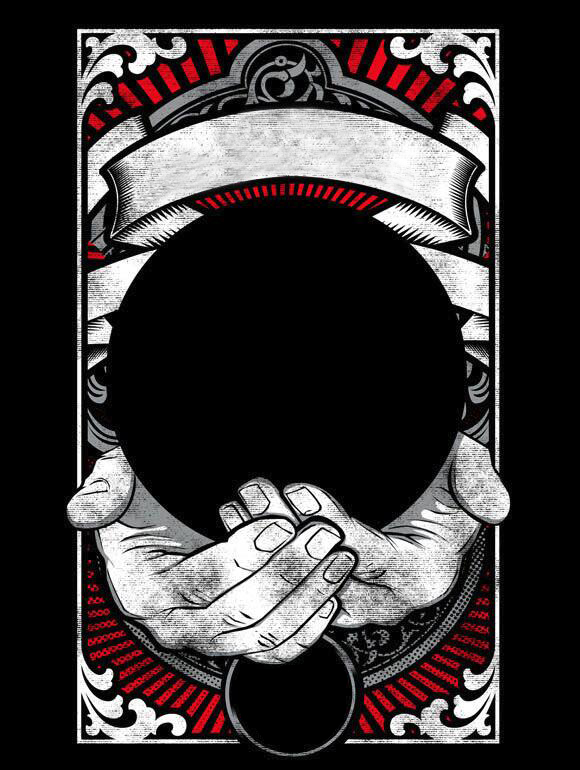
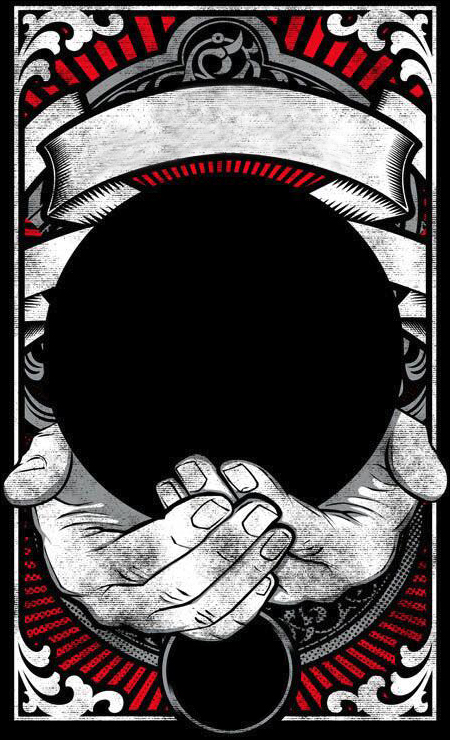
Add background image in game page

diff --git a/src/scss/game-page.scss b/src/scss/game-page.scss
@@ -1,3 +1,5 @@
 .back-ground {
+  height: 100vh;
+  background-size: cover;
   background-image: url('../img/rolebackground.jpg');
 }

diff --git a/src/scss/werewolf-container.scss b/src/scss/werewolf-container.scss
@@ -1,0 +1,7 @@
+.werewolf-app {
+  &-container {
+    max-width: 500px;
+    height: 100vh;
+    margin: auto;
+  }
+}

diff --git a/src/scss/default.scss b/src/scss/default.scss
@@ -3,3 +3,4 @@
 @import 'create-room';
 @import 'enter-room';
 @import 'game-page';
+@import 'werewolf-container';

diff --git a/src/scss/base.scss b/src/scss/base.scss
@@ -1,5 +1,6 @@
 $red: #ED3B37;
 $grey: #C0E5DB;
+$black: #000000;
 
 @mixin input {
   margin: 0;

diff --git a/src/scss/welcome.scss b/src/scss/welcome.scss
@@ -12,3 +12,7 @@
     @include button;
   }
 }
+
+body {
+  background-color: $black;
+}
